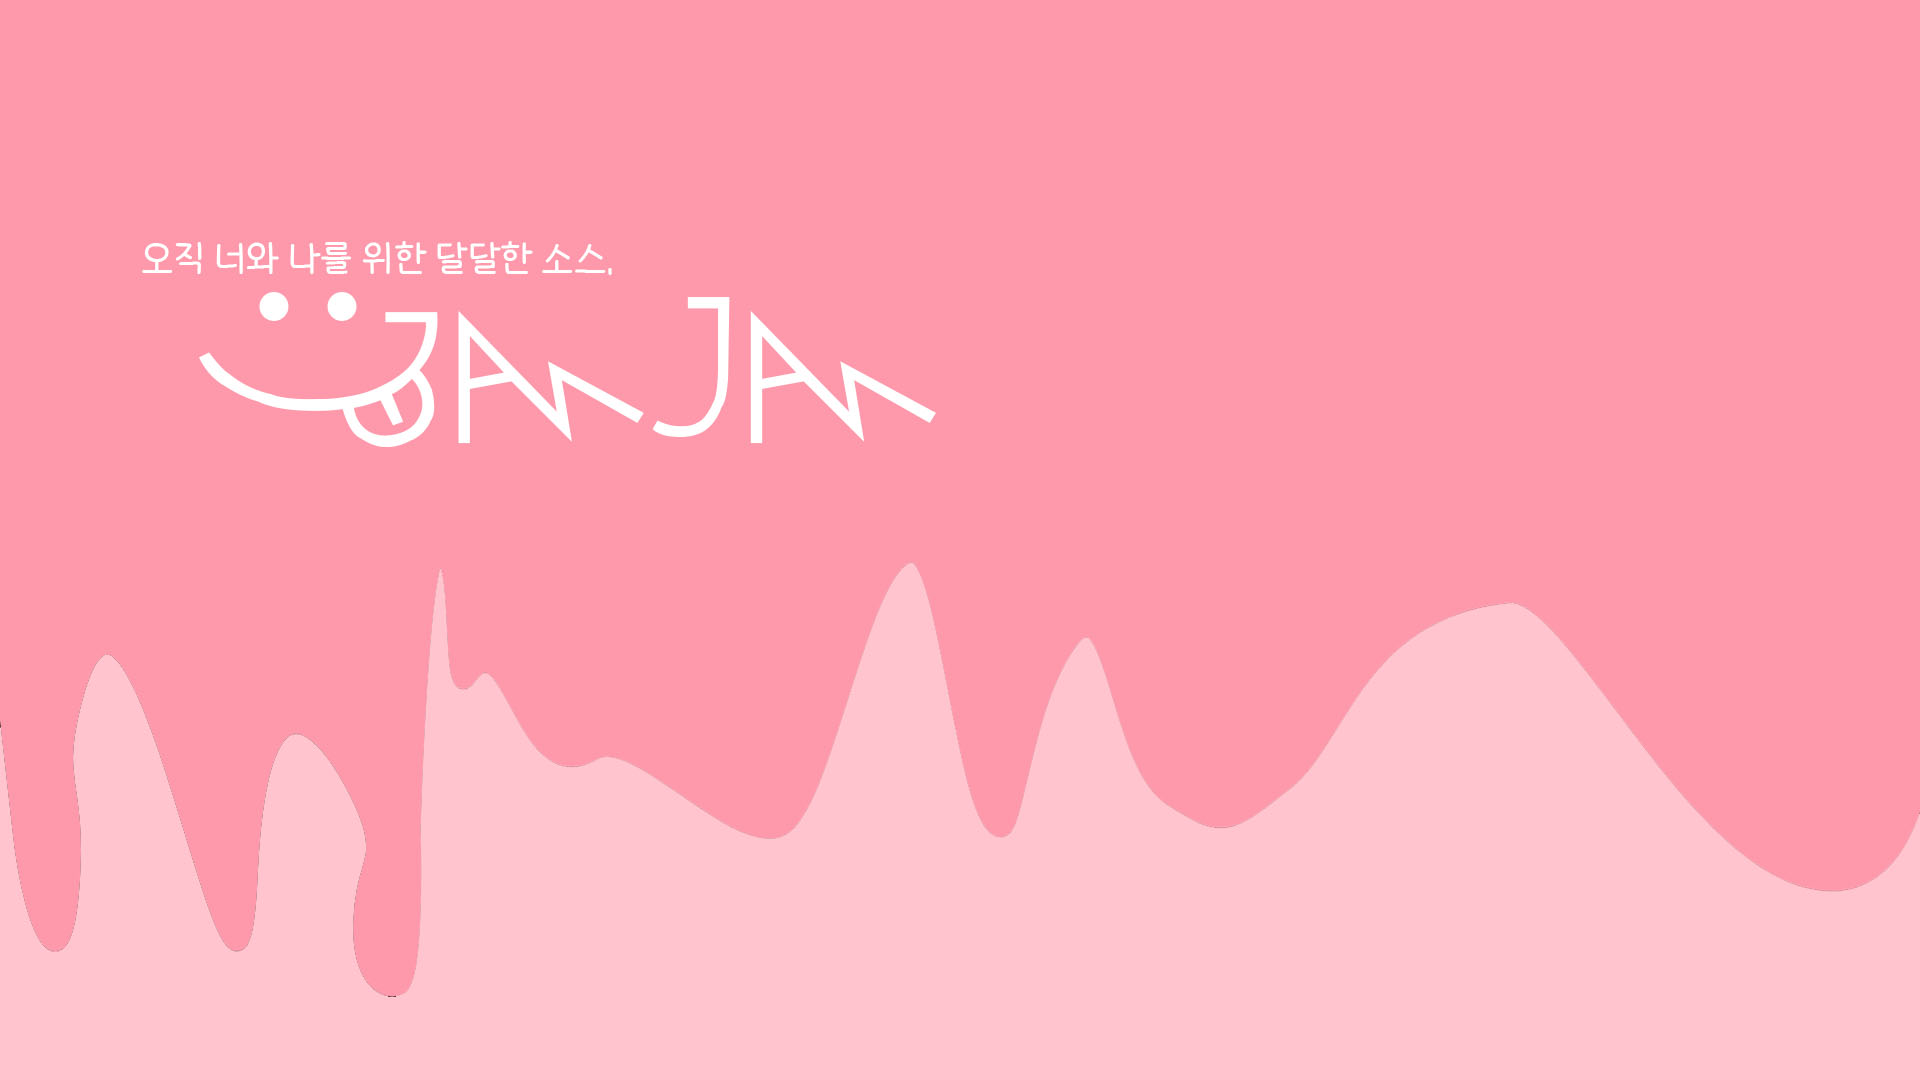
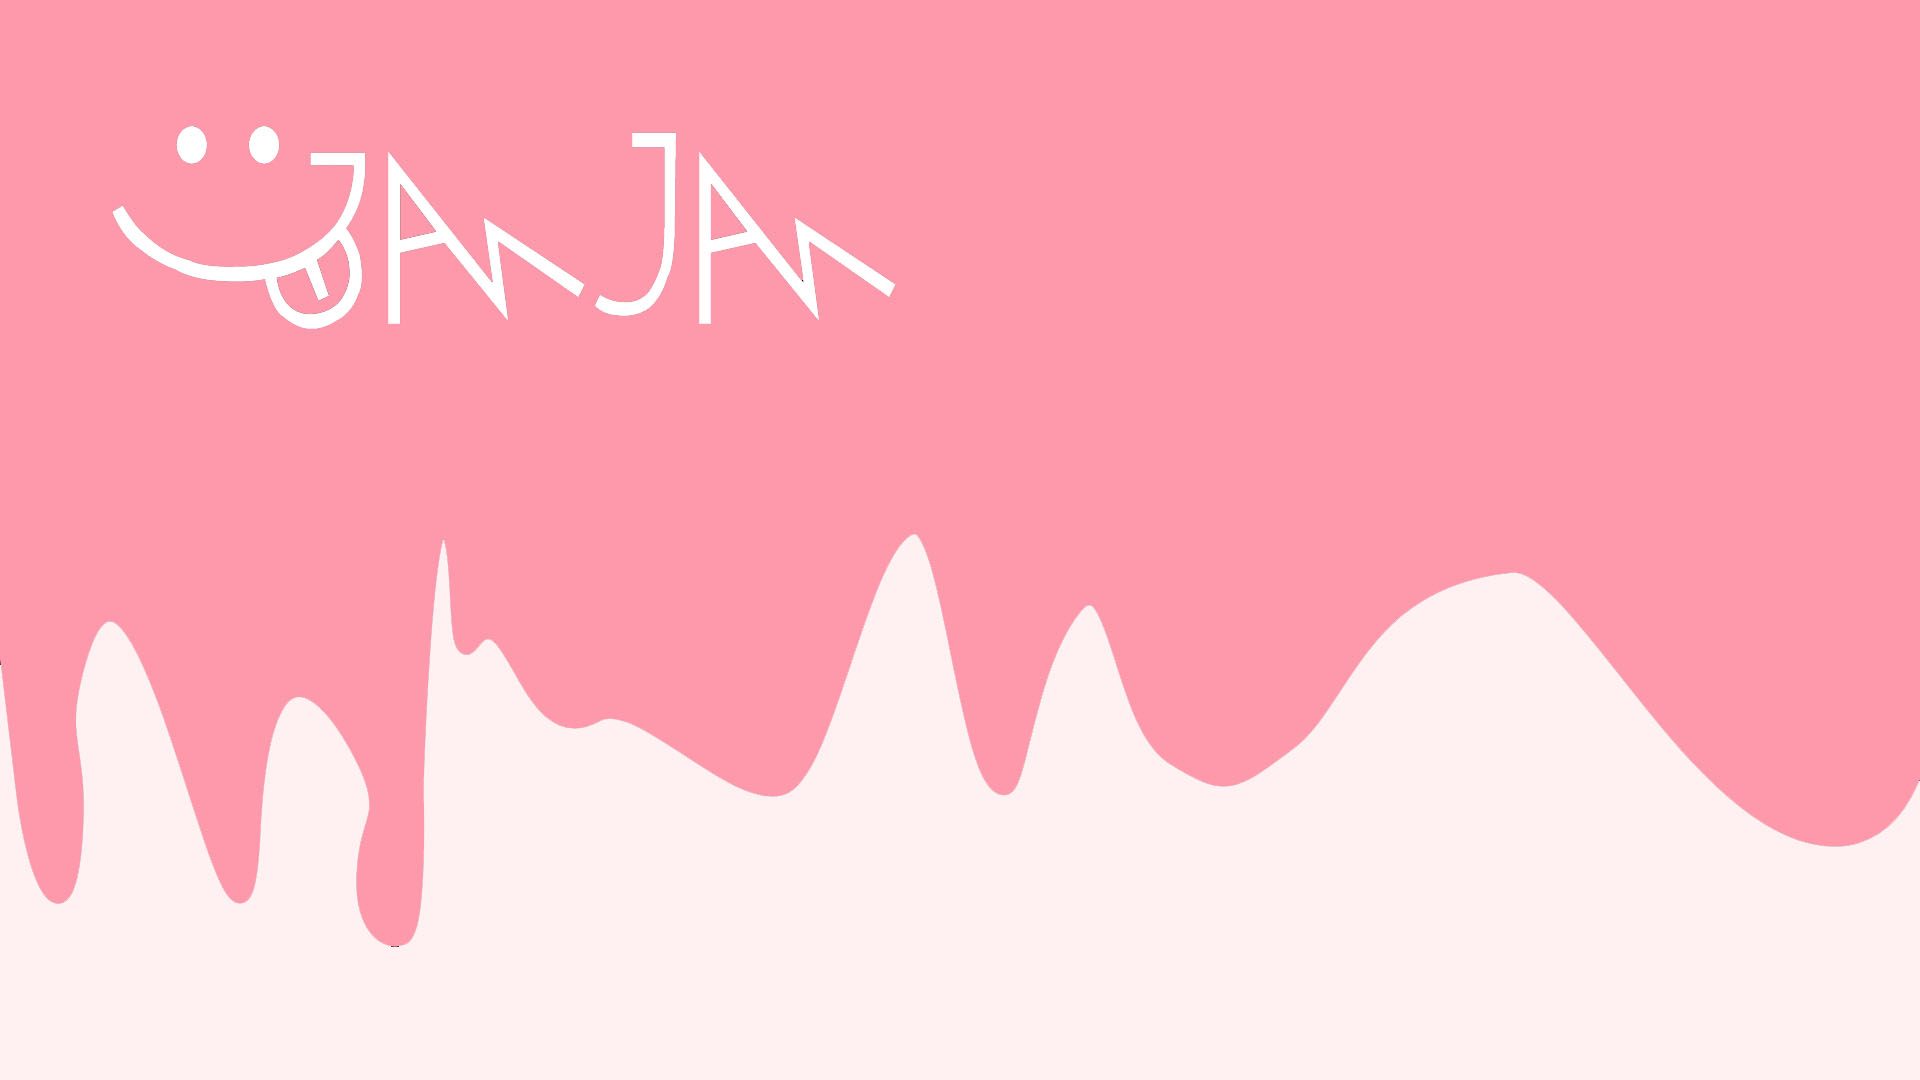
delete scrollbar

diff --git a/jamjamapp/static/jamjamapp/css/login.css b/jamjamapp/static/jamjamapp/css/login.css
@@ -10,7 +10,8 @@
 
 body {
     margin : 0px;
-    background-color: #FFC4CE;
+    background-color: #FFF0F2;
+    overflow: hidden;
 }
 
 .login-container {
